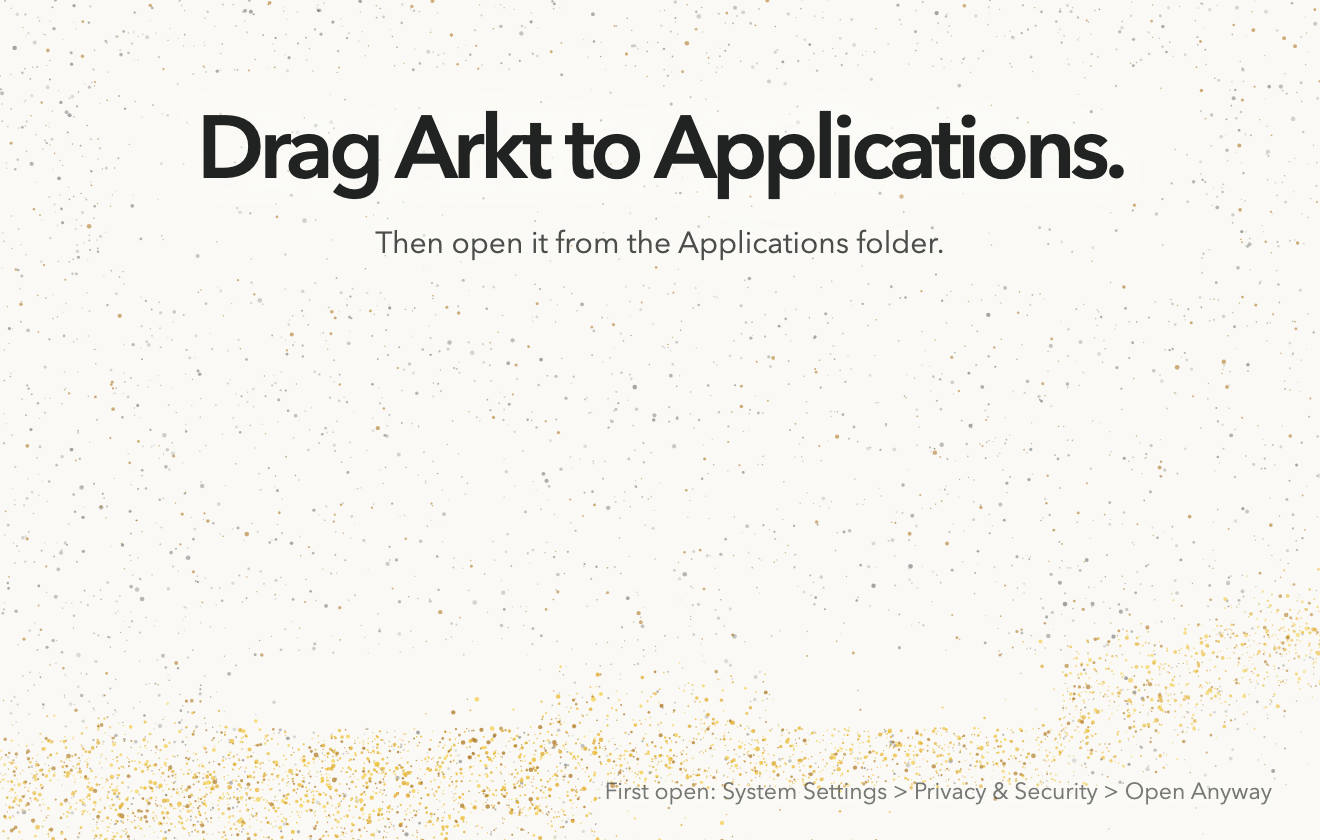
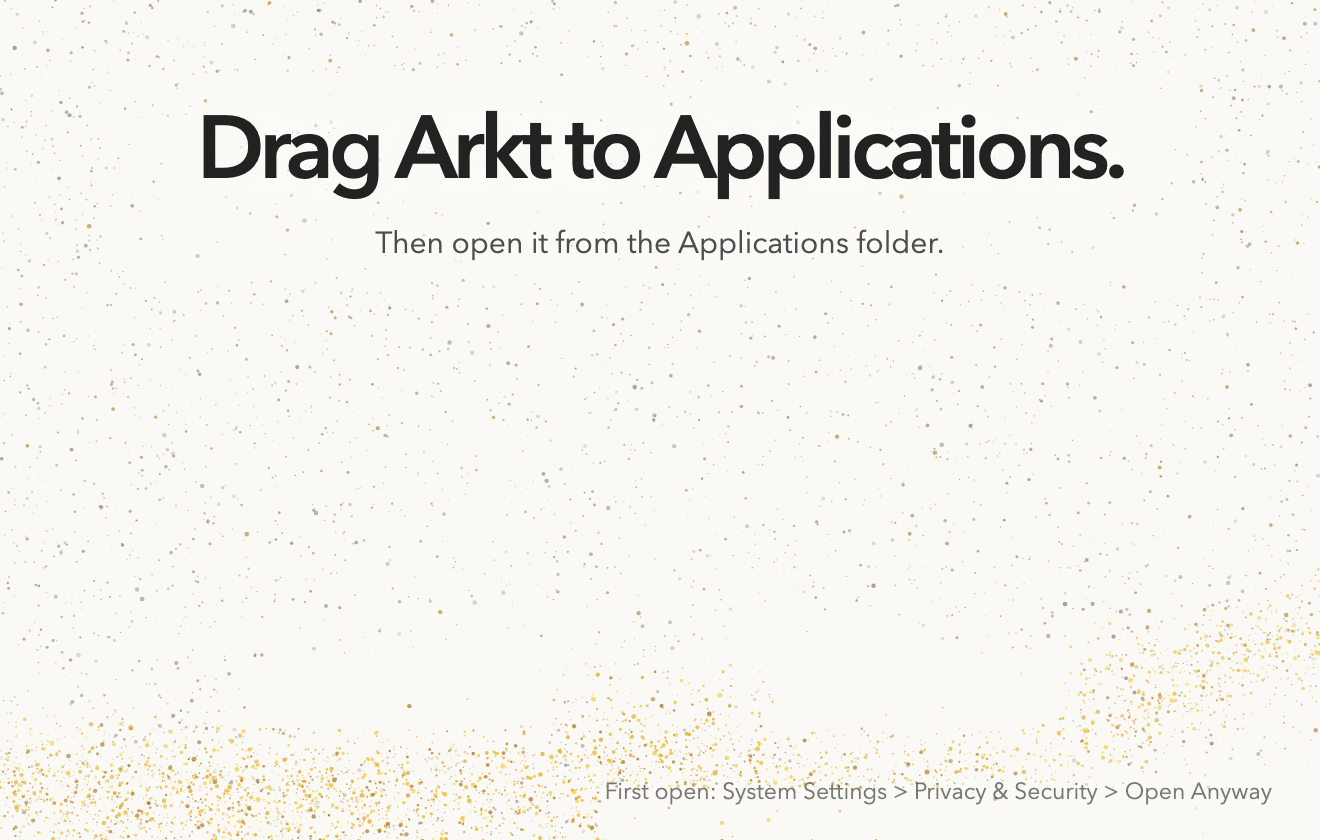
Ship the porcelain background and thin the dust under the labels (#983)

Changed region(s): [[0.0, 0.7429, 1.0, 1.0]]

diff --git a/design/install-dmg/prototype/index.html b/design/install-dmg/prototype/index.html
@@ -8,7 +8,10 @@ p{position:absolute;left:0;width:660px;top:112px;margin:0;text-align:center;font
 <script>
 // icons at (200, 262) and (460, 262); labels about 338 to 354
 document.documentElement.className = MODE;
-const calmZ = [[60, 36, 600, 140, 0.18], [130, 328, 270, 364, 0.04], [390, 328, 530, 364, 0.04], [300, 394, 660, 420, 0.03]];
+const labelZ = [[130, 328, 270, 364], [390, 328, 530, 364]];
+const feather = (z, k, e, keep) => [z[0] - e, z[1] - e, z[2] + e, z[3] + e, keep];
+// a calm zone under each label: nearly empty in the middle, thinning out over 24 pt so there is no visible hole
+const calmZ = [...labelZ.map(z => [...z, 0.03]), ...labelZ.map(z => feather(z, 0, 10, 0.3)), ...labelZ.map(z => feather(z, 0, 24, 0.65)), [60, 36, 600, 140, 0.18], [300, 394, 660, 420, 0.03]];
 dust(4300, calmZ);
 // the wave: flat along the bottom on the left, rising to the right, as in Welcome
 const rise = x => 70 * Math.pow(Math.max(0, (x - 300) / 360), 1.5);

diff --git a/design/install-dmg/prototype/mock.html b/design/install-dmg/prototype/mock.html
@@ -10,4 +10,4 @@
 <div class="label" style="left:140px;top:330px">Arkt</div>
 <div class="label" style="left:400px;top:330px">Applications</div>
 </div></div>
-<script>const m = location.hash === "#dark" ? "dark" : "light"; document.documentElement.dataset.mode = m; document.getElementById("bg").src = "index.html#" + m;</script>
+<script>const m = location.hash === "#dark" ? "dark" : "light"; document.documentElement.dataset.mode = m; document.getElementById("bg").src = "index.html#light";</script>

diff --git a/design/install-dmg/README.md b/design/install-dmg/README.md
@@ -40,20 +40,21 @@ macOS; no font is bundled.
 
 | Path | What it is |
 |---|---|
-| `background.png`, `background@2x.png` | The porcelain background, 660 x 420 and 1320 x 840 px, no icons (what ships) |
-| `background-dark.png`, `background-dark@2x.png` | The graphite background, same sizes |
-| `screens/install-light.png`, `screens/install-dark.png` | 2x renders of the Finder window mock (732 x 520 pt canvas): the porcelain background with light Finder, the graphite background with dark Finder |
-| `prototype/index.html` | The background source (`#light` or `#dark`); the static particle generator is `prototype/particles.js` |
+| `background.png`, `background@2x.png` | The porcelain background, 660 x 420 and 1320 x 840 px, no icons. **This is what ships** (decision: porcelain) |
+| `screens/install-light.png`, `screens/install-dark.png` | 2x renders of the Finder window mock (732 x 520 pt canvas): both on the shipped porcelain background: `install-light.png` with light Finder (black labels), `install-dark.png` with dark Finder (white labels, the weak case) |
+| `prototype/index.html` | The background source (`#light` ships; `#dark` is an unused graphite reference); the static particle generator is `prototype/particles.js` |
 | `prototype/mock.html` | The Finder window mock with a title bar, the real app icon and a stand-in Applications icon (Finder draws the real one) |
 
 Renders: headless Chromium (Playwright's `chrome-headless-shell`), offline, `--force-device-scale-factor=2`,
 `--window-size=732,520` for the mock and `660,420` for the background. The generator is seeded and static; it is a
 simplified Canvas 2D version of the onboarding field (`design/onboarding/prototype/field.js`).
 
-## Open point: label readability with one background
+## Open point: label readability on the shipped porcelain background
 
-A DMG has one background image, but Finder draws labels in the system appearance (black in light mode, white in dark
-mode; not yet confirmed on a mounted DMG here). A porcelain background gives black labels full contrast and white
-labels almost none; a graphite background is the reverse. Labels sit in a calm zone with thinned dust, with no card
-behind them. Options: ship one field and accept the weaker appearance, or a mid-tone field that holds both colors but
-leaves the onboarding look. To be settled with a real-Finder check before the build issue.
+The shipped background is porcelain. Finder draws labels in the system appearance (black in light mode, white in dark
+mode; not yet confirmed on a mounted DMG here). Black labels read well. In dark-mode Finder the white labels sit on
+porcelain and are close to invisible (`screens/install-dark.png` shows this honestly). Under each label the art has a
+calm zone: dust and wave motes thin out over about 24 pt around a 140 x 36 pt area, so nothing competes with the text.
+That helps black labels and does not help white ones; no porcelain halo can, because the problem is white on near-white.
+Real fix if it matters: a soft mid-tone glow behind the labels (about 4.5:1 for both colors), at the cost of the clean
+porcelain look. To be decided after the real-Finder check.
